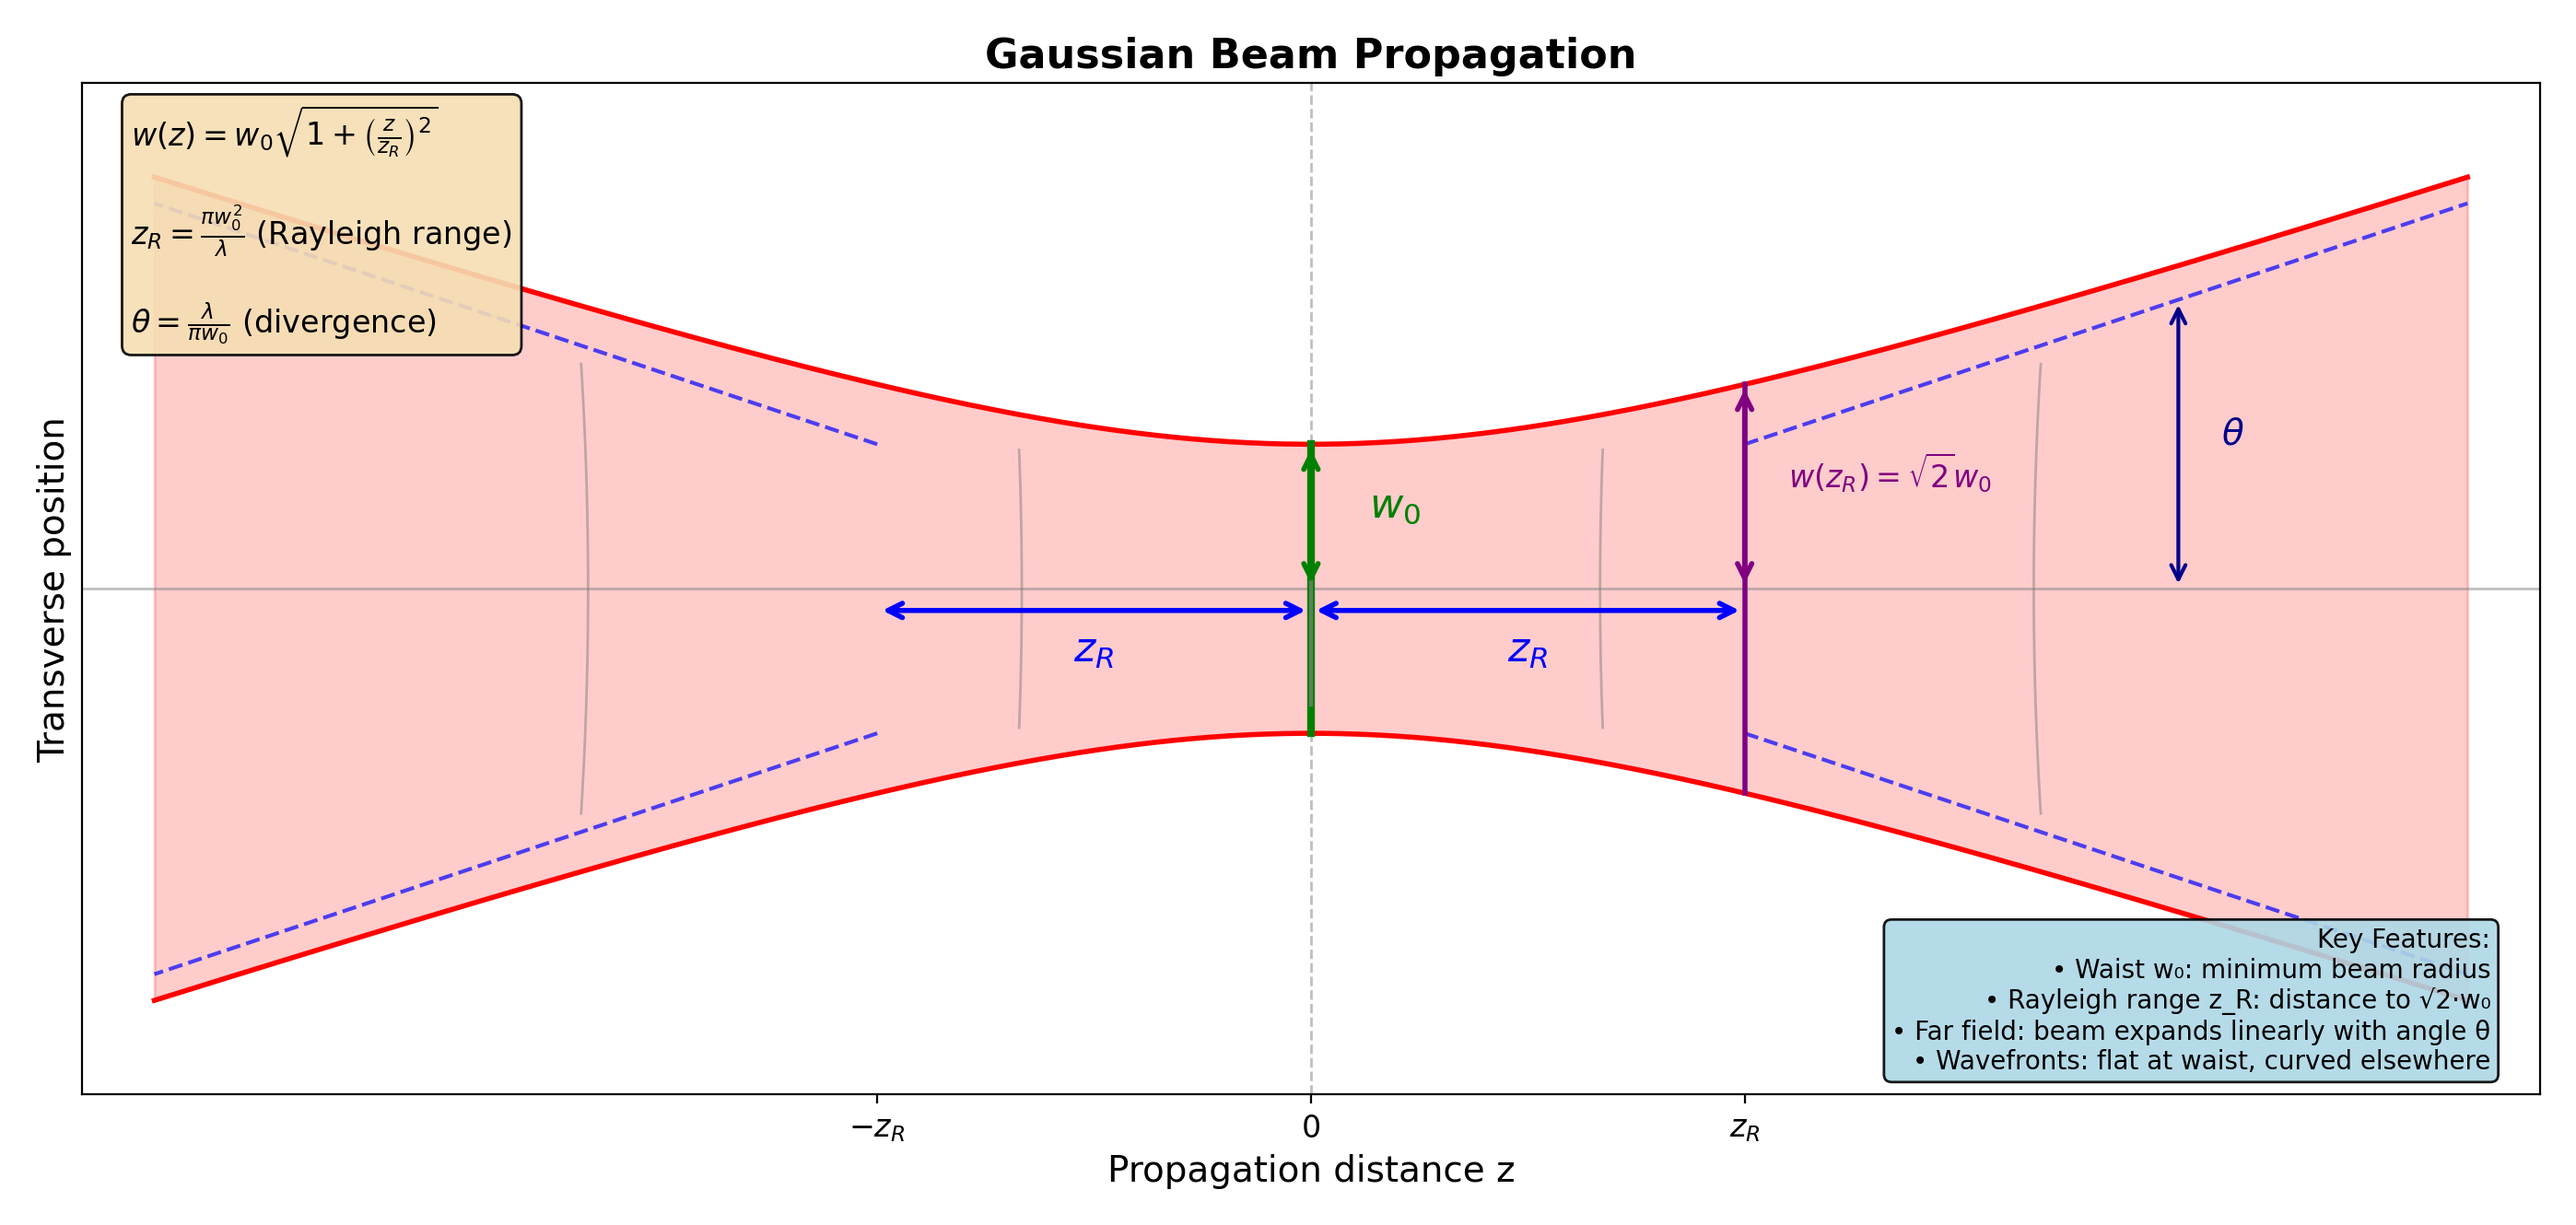
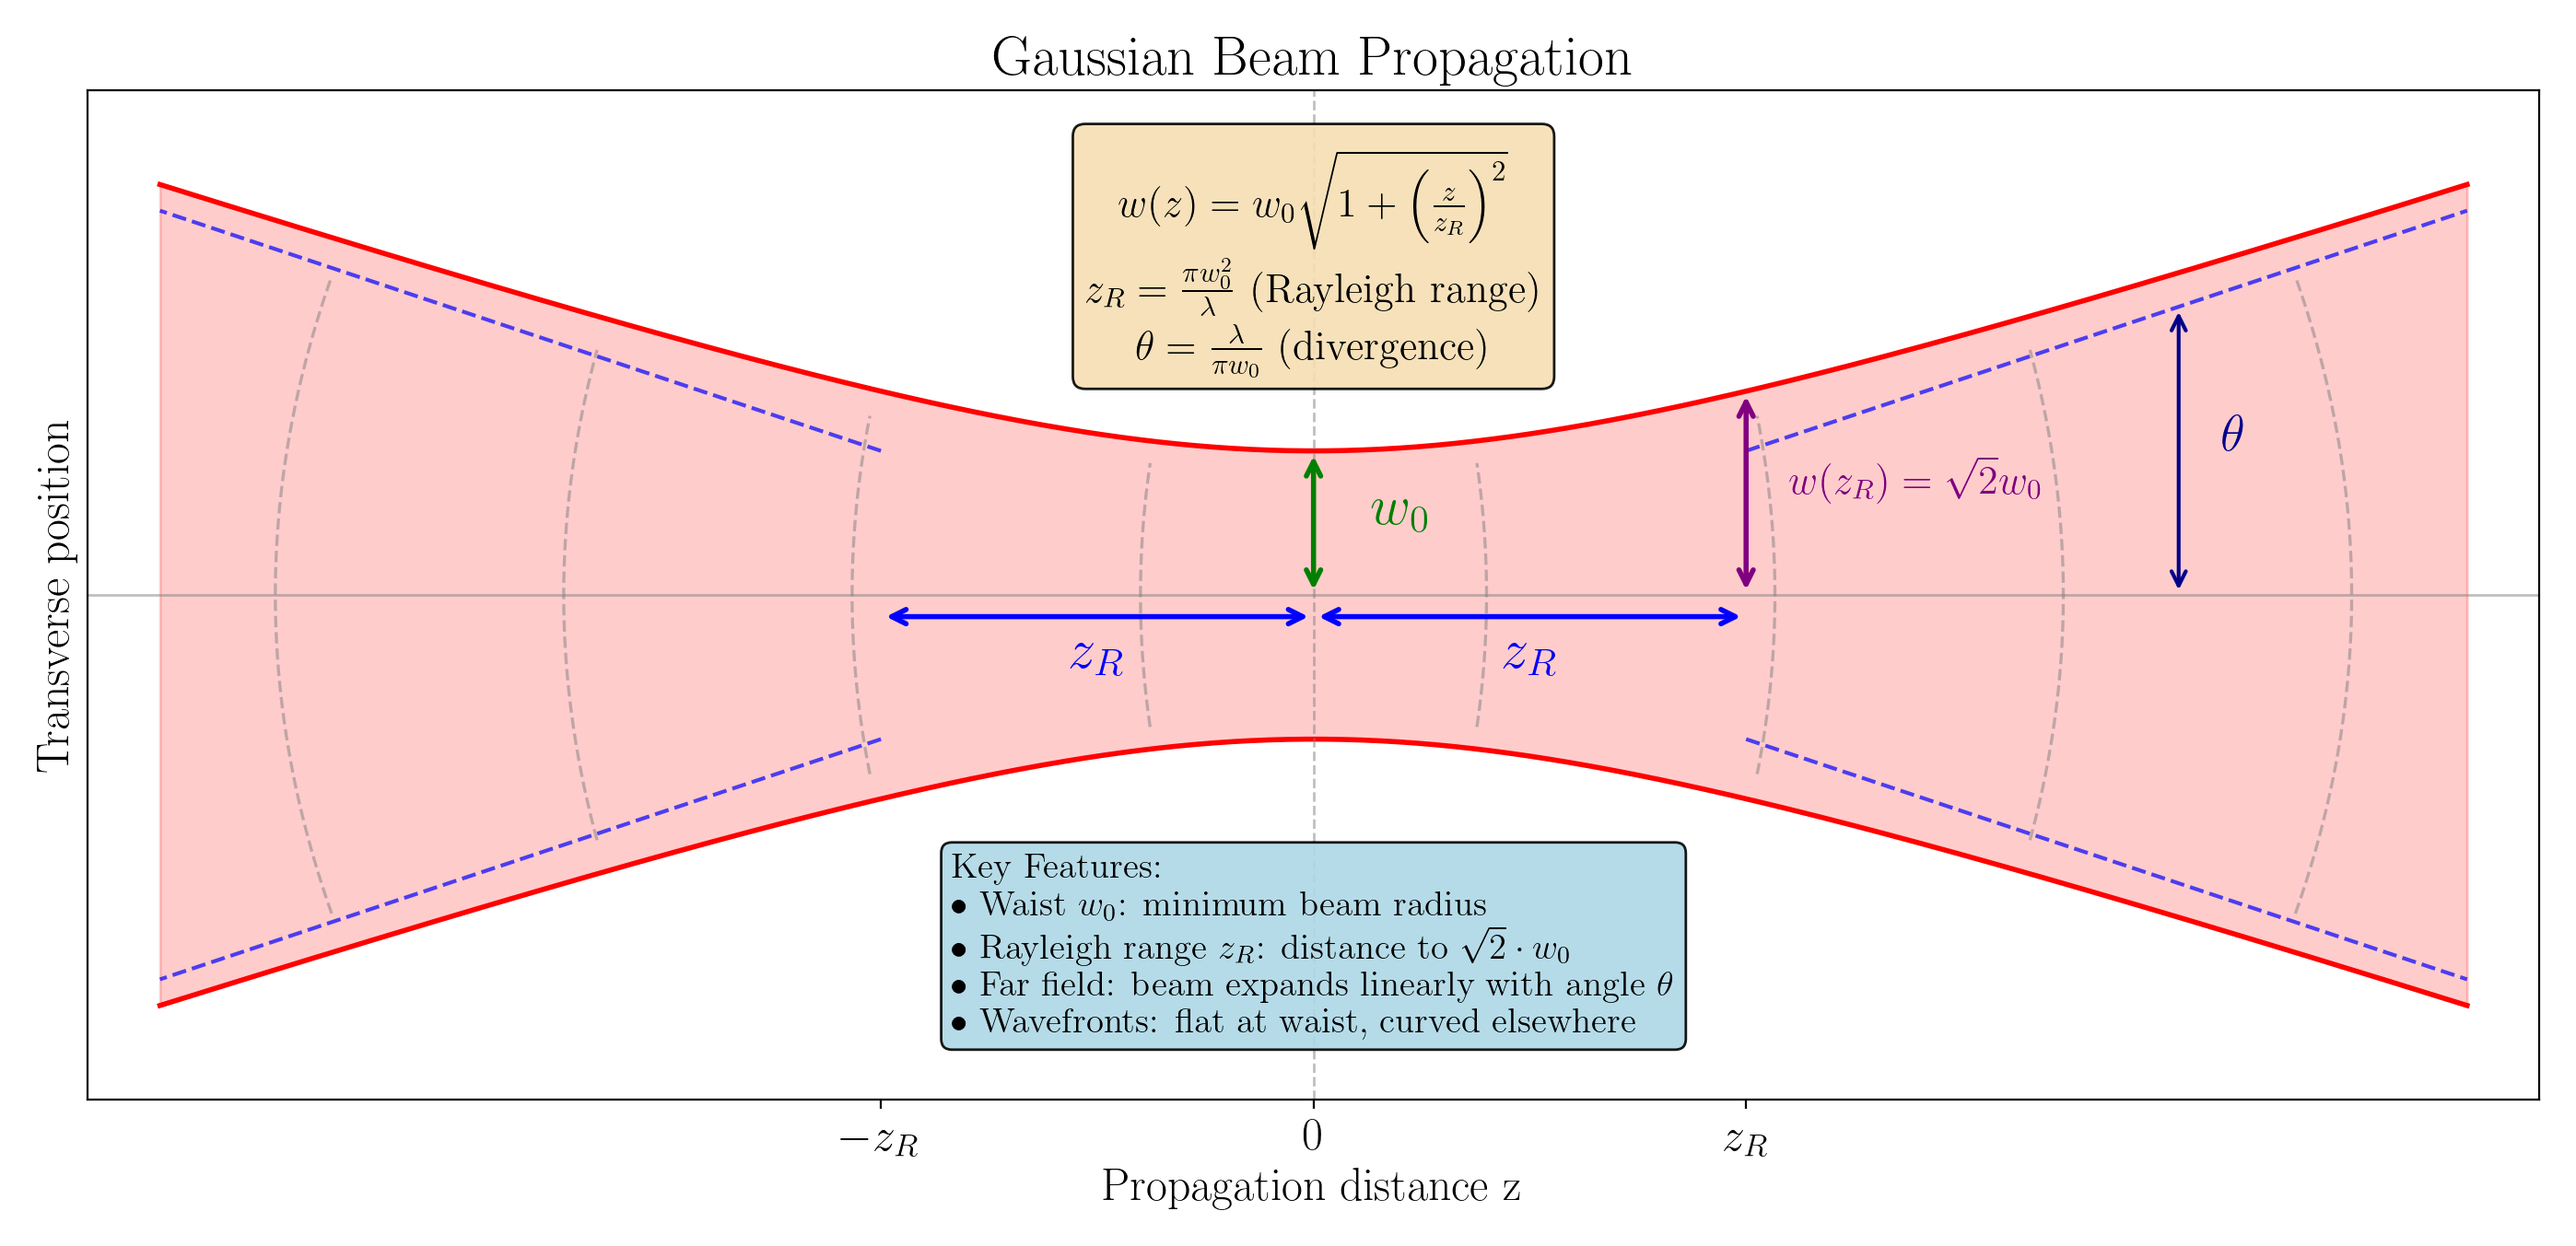
Fix Gaussian beam equations and improve diagram for presentations
- Fix Gouy phase equation (argument was inverted)
- Add missing "i" to SVEA approximation for consistency with derivation
- Improve Gaussian beam diagram:
  - Fix wavefront curvature direction (center leads edges)
  - Enable LaTeX rendering for proper equation typesetting
  - Increase font sizes for projection/presentation use
  - Center text boxes and improve layout
  - Use arrows only (no thick lines) for w_0 and w(z_R) markers

diff --git a/raw-content/lectures/week2/thursday/generate_figures.py b/raw-content/lectures/week2/thursday/generate_figures.py
@@ -1084,6 +1084,10 @@ def thursday_gaussian_beam_diagram():
     """Generate Gaussian beam propagation diagram showing key parameters."""
     print("  Generating: thursday_gaussian_beam_diagram.png")
 
+    # Enable LaTeX rendering for better equation display
+    plt.rcParams['text.usetex'] = True
+    plt.rcParams['font.family'] = 'serif'
+
     fig, ax = plt.subplots(figsize=(14, 7))
 
     # Parameters (normalized units for clarity)
@@ -1119,70 +1123,67 @@ def thursday_gaussian_beam_diagram():
     ax.axvline(x=0, color='gray', linewidth=1, linestyle='--', alpha=0.5)
 
     # Mark beam waist w0
-    ax.plot([0, 0], [-w0, w0], 'g-', linewidth=3, label=f'Beam waist w₀')
     ax.annotate('', xy=(0, w0), xytext=(0, 0),
                 arrowprops=dict(arrowstyle='<->', color='green', lw=2))
-    ax.text(0.4, w0/2, r'$w_0$', fontsize=16, color='green', fontweight='bold')
+    ax.text(0.4, w0/2, r'$w_0$', fontsize=22, color='green', fontweight='bold')
 
     # Mark w(z) at z = z_R (√2 * w0)
     w_at_zR = w(z_R)
-    ax.plot([z_R, z_R], [-w_at_zR, w_at_zR], 'purple', linewidth=2, linestyle='-')
     ax.annotate('', xy=(z_R, w_at_zR), xytext=(z_R, 0),
                 arrowprops=dict(arrowstyle='<->', color='purple', lw=2))
-    ax.text(z_R + 0.3, w_at_zR/2, r'$w(z_R) = \sqrt{2}w_0$', fontsize=12, color='purple')
+    ax.text(z_R + 0.3, w_at_zR/2, r'$w(z_R) = \sqrt{2}w_0$', fontsize=16, color='purple')
 
     # Mark Rayleigh range on z-axis
     ax.annotate('', xy=(z_R, -0.15), xytext=(0, -0.15),
                 arrowprops=dict(arrowstyle='<->', color='blue', lw=2))
-    ax.text(z_R/2, -0.5, r'$z_R$', fontsize=16, color='blue', ha='center', fontweight='bold')
+    ax.text(z_R/2, -0.5, r'$z_R$', fontsize=22, color='blue', ha='center', fontweight='bold')
 
     # Mark -z_R as well
     ax.annotate('', xy=(-z_R, -0.15), xytext=(0, -0.15),
                 arrowprops=dict(arrowstyle='<->', color='blue', lw=2))
-    ax.text(-z_R/2, -0.5, r'$z_R$', fontsize=16, color='blue', ha='center', fontweight='bold')
+    ax.text(-z_R/2, -0.5, r'$z_R$', fontsize=22, color='blue', ha='center', fontweight='bold')
 
     # Mark divergence angle theta
     angle_z = 6
     angle_y = theta * angle_z
     ax.annotate('', xy=(angle_z, angle_y), xytext=(angle_z, 0),
                 arrowprops=dict(arrowstyle='<->', color='darkblue', lw=1.5))
-    ax.text(angle_z + 0.3, angle_y/2, r'$\theta$', fontsize=14, color='darkblue', fontweight='bold')
+    ax.text(angle_z + 0.3, angle_y/2, r'$\theta$', fontsize=20, color='darkblue', fontweight='bold')
 
-    # Add wavefront curvature indicators (curved lines at key positions)
-    for z_pos in [-5, -2, 2, 5]:
+    # Add wavefront curvature indicators at positions that don't overlap annotations
+    # Avoid: z=0 (waist marker), z=±3 (z_R markers), z=6 (theta annotation)
+    # Wavefronts curve so center LEADS edges (convex in propagation direction)
+    wavefront_positions = [-7.2, -5.2, -3.2, -1.2, 1.2, 3.2, 5.2, 7.2]
+    for z_pos in wavefront_positions:
         w_pos = w(z_pos)
-        # Draw curved wavefront
-        y_wf = np.linspace(-w_pos * 0.8, w_pos * 0.8, 50)
-        if z_pos != 0:
-            # Approximate curvature visualization
-            R_z = z_pos * (1 + (z_R / z_pos)**2)
-            curvature = 0.02 * np.sign(z_pos) * y_wf**2
-            ax.plot(z_pos + curvature, y_wf, 'gray', linewidth=1, alpha=0.5)
-
-    # At z=0, wavefront is flat
-    ax.plot([0, 0], [-w0 * 0.8, w0 * 0.8], 'gray', linewidth=1.5, alpha=0.7)
+        y_wf = np.linspace(-w_pos * 0.85, w_pos * 0.85, 100)
+        # Exaggerated curvature for visibility (more curved farther from waist)
+        curvature = -0.08 * np.sign(z_pos) * y_wf**2
+        ax.plot(z_pos + curvature, y_wf, color='gray', linewidth=1.2, alpha=0.5,
+                linestyle='--')
 
     # Labels and annotations
-    ax.set_xlabel('Propagation distance z', fontsize=14)
-    ax.set_ylabel('Transverse position', fontsize=14)
-    ax.set_title('Gaussian Beam Propagation', fontsize=16, fontweight='bold')
+    ax.set_xlabel('Propagation distance z', fontsize=18)
+    ax.set_ylabel('Transverse position', fontsize=18)
+    ax.set_title('Gaussian Beam Propagation', fontsize=22, fontweight='bold')
 
-    # Key equations box
-    eq_text = (r'$w(z) = w_0\sqrt{1 + \left(\frac{z}{z_R}\right)^2}$' + '\n\n' +
-               r'$z_R = \frac{\pi w_0^2}{\lambda}$ (Rayleigh range)' + '\n\n' +
+    # Key equations box (centered horizontally at top)
+    eq_text = (r'$w(z) = w_0\sqrt{1 + \left(\frac{z}{z_R}\right)^2}$' + '\n' +
+               r'$z_R = \frac{\pi w_0^2}{\lambda}$ (Rayleigh range)' + '\n' +
                r'$\theta = \frac{\lambda}{\pi w_0}$ (divergence)')
-    ax.text(0.02, 0.98, eq_text, transform=ax.transAxes, fontsize=12,
-            verticalalignment='top', horizontalalignment='left',
+    ax.text(0.5, 0.94, eq_text, transform=ax.transAxes, fontsize=16,
+            verticalalignment='top', horizontalalignment='center',
             bbox=dict(boxstyle='round', facecolor='wheat', alpha=0.9))
 
-    # Physical meaning box
-    meaning_text = ('Key Features:\n'
-                    '• Waist w₀: minimum beam radius\n'
-                    '• Rayleigh range z_R: distance to √2·w₀\n'
-                    '• Far field: beam expands linearly with angle θ\n'
-                    '• Wavefronts: flat at waist, curved elsewhere')
-    ax.text(0.98, 0.02, meaning_text, transform=ax.transAxes, fontsize=10,
-            verticalalignment='bottom', horizontalalignment='right',
+    # Physical meaning box (centered horizontally at bottom)
+    meaning_text = (r'Key Features:' + '\n'
+                    r'$\bullet$ Waist $w_0$: minimum beam radius' + '\n'
+                    r'$\bullet$ Rayleigh range $z_R$: distance to $\sqrt{2} \cdot w_0$' + '\n'
+                    r'$\bullet$ Far field: beam expands linearly with angle $\theta$' + '\n'
+                    r'$\bullet$ Wavefronts: flat at waist, curved elsewhere')
+    ax.text(0.5, 0.06, meaning_text, transform=ax.transAxes, fontsize=14,
+            verticalalignment='bottom', horizontalalignment='center',
+            multialignment='left',
             bbox=dict(boxstyle='round', facecolor='lightblue', alpha=0.9))
 
     ax.set_xlim(-8.5, 8.5)
@@ -1194,11 +1195,15 @@ def thursday_gaussian_beam_diagram():
 
     # Custom x-axis labels
     ax.set_xticks([-z_R, 0, z_R])
-    ax.set_xticklabels([r'$-z_R$', '0', r'$z_R$'], fontsize=12)
+    ax.set_xticklabels([r'$-z_R$', '0', r'$z_R$'], fontsize=18)
 
     plt.tight_layout()
     plt.savefig(THURSDAY_DIR / "thursday_gaussian_beam_diagram.png")
     plt.close()
+
+    # Restore default settings so other figures aren't affected
+    plt.rcParams['text.usetex'] = False
+    plt.rcParams['font.family'] = 'sans-serif'
 
 
 # =============================================================================

diff --git a/raw-content/gaussian-beams-3-raw.md b/raw-content/gaussian-beams-3-raw.md
@@ -79,7 +79,7 @@ $$\left(\frac{\partial^2A}{\partial x^2} +\frac{\partial^2A}{\partial y^2} +\fra
 
 So far, we have made no approximation to the solution or the wave equation, but now we apply the assumption that $\partial{A}(x,y,z)/\partial{z}$ changes slowly over a wavelength $\lambda = 2\pi /k$, so we neglect the term
 
-$$\left| \frac{\partial^2A}{\partial z^2} \right| \ll \left|2k\frac{\partial A}{\partial z}\right|\text{.}$$ {#eq:6}
+$$\left| \frac{\partial^2A}{\partial z^2} \right| \ll \left|2ik\frac{\partial A}{\partial z}\right|\text{.}$$ {#eq:6}
 
 Finally, we get the paraxial wave equation,
 
@@ -101,7 +101,7 @@ $$R(z)=z\left(1+\left(\frac{\pi w_0^2}{\lambda z}\right)^2\right)\text{,}$$ {#eq
 
 and the Gouy phase is given by
 
-$$\zeta(z)=arctan\frac{\pi w_0^2}{\lambda z}\text{.}$$ {#eq:11}
+$$\zeta(z)=\arctan\frac{\lambda z}{\pi w_0^2}\text{.}$$ {#eq:11}
 
 The remarkable thing about all these equations is that only two parameters need to be specified to give the whole beam profile: the wavelength $\lambda$ and the beam waist $w_0$, which is the narrowest point in the beam profile. There is a more general set of Hermite Gaussian modes which are shown in Figure @fig:gauss-hermite. The laser cavity typically produces the (0,0) mode shown in the upper left corner, but an optical cavity can also be used to create these other modes – a topic that can be explored in the final projects.
 
@@ -184,22 +184,26 @@ For characterizing a laser beam's propagation, $w(z)$ is often the most practica
 
 In Week 4, you will use Python to automate beam profile measurements by controlling a motorized translation stage. This section guides you through setting up and verifying the motor controller hardware. Getting this working now will save significant time later.
 
+**If you did not complete section 10 from week 1 (manual data collection), you must do that now before proceeding as you will need to remove the micrometer installed in the translation stage in the next section.**
+
 ## Hardware Overview
 
-The Thorlabs KST101 is a stepper motor controller that can precisely position a translation stage. You will use it to move a razor blade across the laser beam while the DAQ records the photodetector signal.
+The Thorlabs KST101 and ZST225B is a stepper motor controller and stepper motor that can precisely position a translation stage. You will use it to move a razor blade across the laser beam while the DAQ records the photodetector signal.
 
 The physical connections are:
 
 1. **Motor Controller (KST101)**:
    - Connect the USB cable from the KST101 cube to your computer
    - Connect the power supply to the KST101
-   - The motor should already be mechanically connected to the translation stage with the razor
-
+   - Install the ZST225B stepper motor into the translation stage (removing the manual micrometer that was used in week 1)
+   - Connect the ZST225B stepper motor to the KST101 controller
 2. **Optical Setup** (for testing):
    - Position the photodetector after the knife-edge in the beam path
    - Ensure the beam passes cleanly through when the razor is fully retracted
 
 ## Software Prerequisites
+
+**This section is for users who want to install the software on their personal devices. The lab laptops already have this installed.**
 
 ### 1. Thorlabs Kinesis SDK
 
